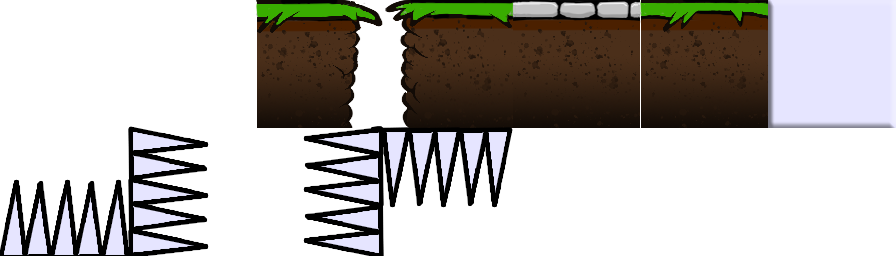
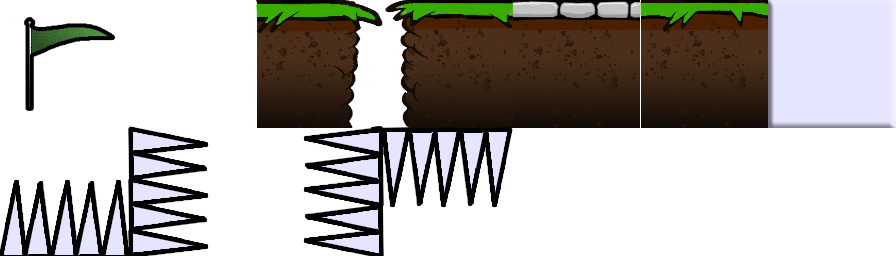
added levels

Changed region(s): [[0.0, 0.0625, 0.125, 0.4375]]

diff --git a/src/scenes/Game.js b/src/scenes/Game.js
@@ -1,7 +1,7 @@
 /* globals __DEV__ */
 import Phaser from 'phaser'
-import WinScreen from '../winScreen'
 import GravityController from '../GravityController';
+import LevelManager from '../LevelManager';
 import { TweenMax } from "gsap";
 
 const TILE_SIZE = 128;
@@ -11,9 +11,11 @@ const JUMP_HEIGHT = 1000;
 export default class extends Phaser.Scene {
   constructor() {
     super({ key: 'GameScene' })
-    this.playerIsAlive = true;
   }
-  init() { }
+  init() { 
+    this.playerIsAlive = true;
+    LevelManager.setScene(this);
+  }
   preload() { }
 
   create() {
@@ -71,24 +73,45 @@ export default class extends Phaser.Scene {
   }
 
   setupLevel() {
-    this.map = this.add.tilemap('level');
+    LevelManager.getLevel()
+    this.map = this.add.tilemap(LevelManager.getLevel());
     const tileset = this.map.addTilesetImage('tiles', 'gameTiles');
     const backgroundTileset = this.map.addTilesetImage('backgroundTiles', 'backgroundTiles');
 
     this.backgroundLayer = this.map.createStaticLayer('background', backgroundTileset);
     this.groundLayer = this.map.createStaticLayer('walls', tileset);
 
+    const objectsLayer = this.map.getObjectLayer('Objects')['objects'];
+
+    console.log(objectsLayer);
+    objectsLayer.forEach(object => {
+      switch (object.type) {
+        case "goal":
+          this.goal = this.physics.add.sprite(object.x, object.y, 'flag')
+            .setSize(84, 145).setImmovable()
+            .setOffset(0, -18);
+
+          this.goal.setCollideWorldBounds(true);
+          break;
+        case "player":
+          //this.player.setPosition(object)
+          break;
+      }
+    });
+
+
+
     // the player will collide with this layer
     this.groundLayer.setCollisionByExclusion([-1]);
 
-  
+
     this.obstaclesLayer = this.map.createStaticLayer('obstacles', tileset);
     this.groundLayer.setCollisionByProperty({ collides: true });
 
     this.physics.add.overlap(this.player, this.obstaclesLayer);
 
     //sets what kills you
-    this.obstaclesLayer.setTileIndexCallback([7,8,9,10,11], (sprite) => {
+    this.obstaclesLayer.setTileIndexCallback([7, 8, 9, 10, 11], (sprite) => {
       this.die();
     });
 
@@ -97,28 +120,23 @@ export default class extends Phaser.Scene {
     const trashArray = [];
     const spread = 3000;
     const trashOptions = ['paper', 'bag', 'shoe'];
-    for (let i=0;i<makeTrash;i+=1) {
+    for (let i = 0; i < makeTrash; i += 1) {
       const todaysTrash = trashOptions[Math.floor(Math.random() * trashOptions.length)];
       trashArray.push(
-        this.physics.add.sprite(Math.random()*spread,Math.random()*spread, todaysTrash)
+        this.physics.add.sprite(Math.random() * spread, Math.random() * spread, todaysTrash)
       )
       this.physics.add.collider(this.groundLayer, trashArray[i]);
     }
-    
+
     GravityController.setTrash(trashArray)
     GravityController.setPlayer(this.player)
 
-    this.goal = this.physics.add.sprite(this.groundLayer.width - 128, 900, 'flag')
-      .setSize(84, 145).setImmovable()
-      .setOffset(0, -18);
-
-    this.goal.setCollideWorldBounds(true);
     this.physics.add.collider(this.groundLayer, this.goal);
- 
 
-    this.physics.add.overlap(this.player, this.goal, this.win);
 
-    
+    this.physics.add.overlap(this.player, this.goal, this.win.bind(this));
+
+
 
     // this.physics.add.overlap(this.player, this.ghosts, (sprite) =>{
     //   this.die(sprite);
@@ -135,11 +153,12 @@ export default class extends Phaser.Scene {
   }
 
   win() {
-    WinScreen.show();
+    clearInterval(this.gravInterval);
+    LevelManager.nextLevel(this.scene);
   }
 
-  die(){
-     if (this.playerIsAlive) {
+  die() {
+    if (this.playerIsAlive) {
       this.player.visible = false;
       this.playerIsAlive = !this.playerIsAlive;
       this.sound.play('death');

diff --git a/src/LevelManager.js b/src/LevelManager.js
@@ -1,0 +1,34 @@
+import WinScreen from './winScreen'
+import GameScene from './scenes/Game'
+class LevelManager {
+    constructor() {
+        this.levels = ['level1', 'level'];
+        this.current = 0;
+        this.reset = false;
+    }
+
+    setScene(scene) {
+        this.scene = scene;
+        this.reset = true;
+    }
+
+    /**
+     * returns the current level file name
+     */
+    getLevel() {
+        return this.levels[this.current];
+    }
+ 
+    nextLevel(scene) {
+        if (this.reset) {
+            if (this.current === this.levels.length) {
+                WinScreen.show();
+            }
+            this.current++;
+            scene.stop('GameScene');
+            scene.start('GameScene');
+        }
+    }
+}
+
+export default new LevelManager();

diff --git a/src/scenes/Boot.js b/src/scenes/Boot.js
@@ -11,7 +11,9 @@ export default class extends Phaser.Scene {
     this.fontsLoaded = this.fontsLoaded.bind(this)
     this.add.text(100, 100, 'loading...')
 
+    this.load.tilemapTiledJSON('level1', 'assets/levels/level1.json');
     this.load.tilemapTiledJSON('level', 'assets/levels/level.json');
+    
     this.load.image('gameTiles', 'assets/images/tiles.png');
     this.load.spritesheet('player', 'assets/images/guy.png', { frameWidth: 128, frameHeight: 128 });
     this.load.image('backgroundTiles', 'assets/images/background.png')

diff --git a/assets/levels/goal.tsx b/assets/levels/goal.tsx
@@ -1,0 +1,7 @@
+<?xml version="1.0" encoding="UTF-8"?>
+<tileset version="1.2" tiledversion="1.2.4" name="goal" tilewidth="128" tileheight="128" tilecount="1" columns="0">
+ <grid orientation="orthogonal" width="1" height="1"/>
+ <tile id="0">
+  <image width="128" height="128" source="../images/flag.png"/>
+ </tile>
+</tileset>
